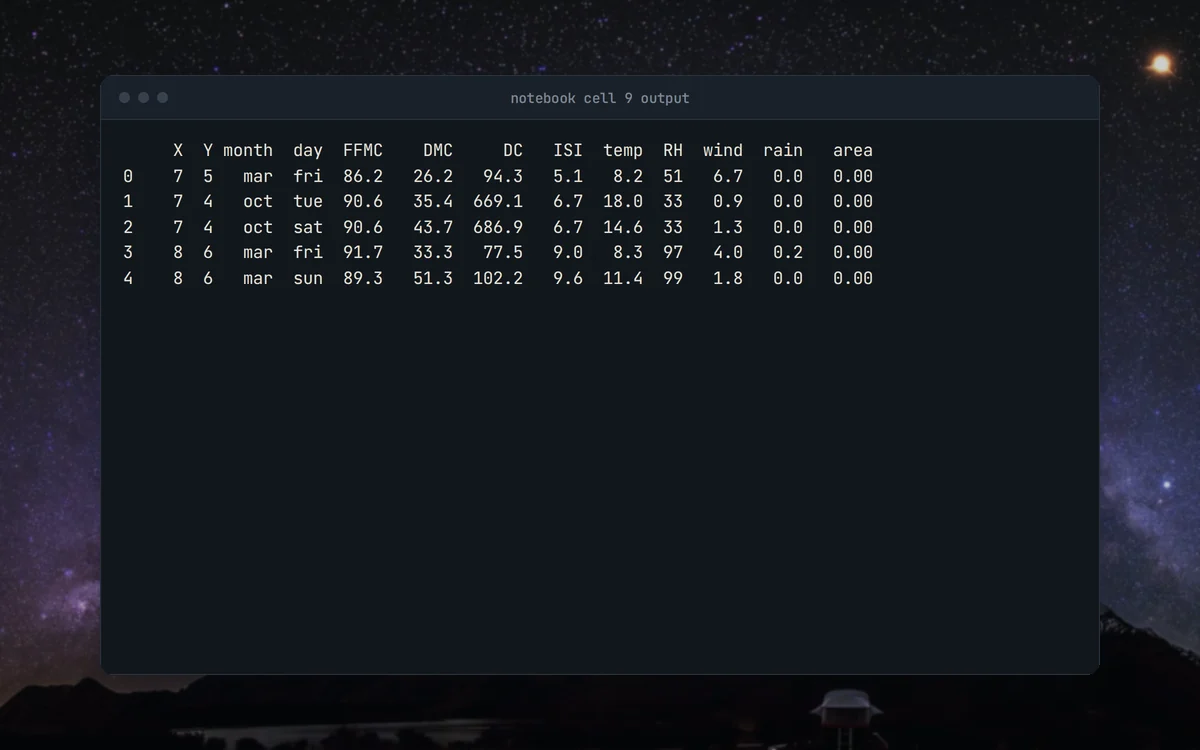
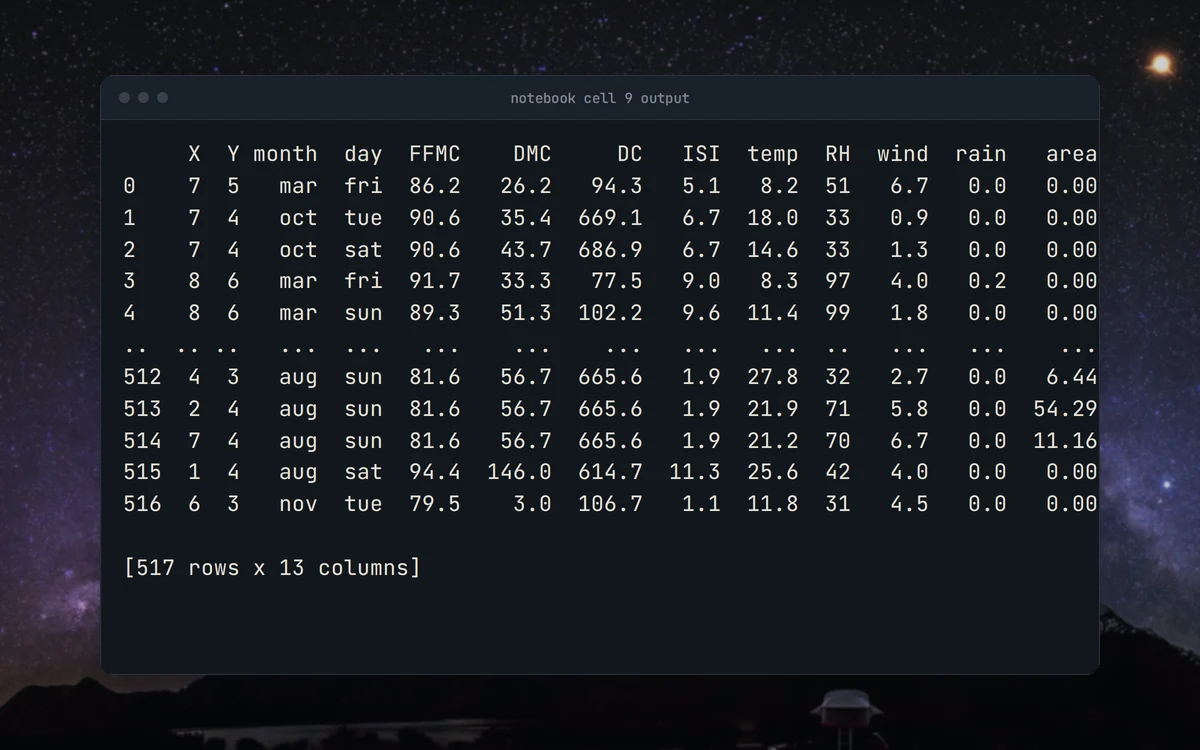
docs(readme): polish the readme visuals

diff --git a/README.md b/README.md
@@ -30,7 +30,7 @@
 <p align="center">
   <picture>
     <source media="(prefers-color-scheme: dark)" srcset="docs/assets/readme/hero-dark.webp">
-    <img src="docs/assets/readme/hero-light.webp" alt="Notebook code that cross-validates KNN, SVM, MLP and Gaussian process classifiers" width="960">
+    <img src="docs/assets/readme/hero-light.webp" alt="Colab form from the notebook with input fields for fire weather indices, grid position, month, day, temperature, humidity, wind and rain, and the predicted class below" width="960">
   </picture>
 </p>
 
@@ -56,10 +56,10 @@ The notebook walks through the problem from both directions.
     <td width="50%" valign="top">
       <picture>
         <source media="(prefers-color-scheme: dark)" srcset="docs/assets/readme/tour/data-dark.webp">
-        <img src="docs/assets/readme/tour/data-light.webp" alt="Saved notebook output showing the first five rows of the forest fires dataset">
+        <img src="docs/assets/readme/tour/data-light.webp" alt="Saved notebook output showing the first and last five rows of the forest fires dataset and its 517 by 13 shape">
       </picture>
       <h3>Dataset sample</h3>
-      The first five rows of the UCI data as the notebook printed them, with grid coordinates, month, fire weather indices, weather and burned area.
+      The UCI data as the notebook printed it: grid coordinates, month, fire weather indices, weather and burned area, 517 rows in all.
     </td>
     <td width="50%" valign="top">
       <picture>
@@ -82,10 +82,10 @@ The notebook walks through the problem from both directions.
     <td width="50%" valign="top">
       <picture>
         <source media="(prefers-color-scheme: dark)" srcset="docs/assets/readme/tour/models-dark.webp">
-        <img src="docs/assets/readme/tour/models-light.webp" alt="Code card of the classifier cross-validation cells of the notebook">
+        <img src="docs/assets/readme/tour/models-light.webp" alt="Code card of the KNN, SVM and MLP cross-validation cells of the notebook">
       </picture>
       <h3>Classifier comparison</h3>
-      KNN, two SVMs, an MLP and a Gaussian process classifier are cross-validated on the same labels.
+      KNN, two SVMs and an MLP are cross-validated on the same labels, followed by a Gaussian process classifier.
     </td>
   </tr>
 </table>
